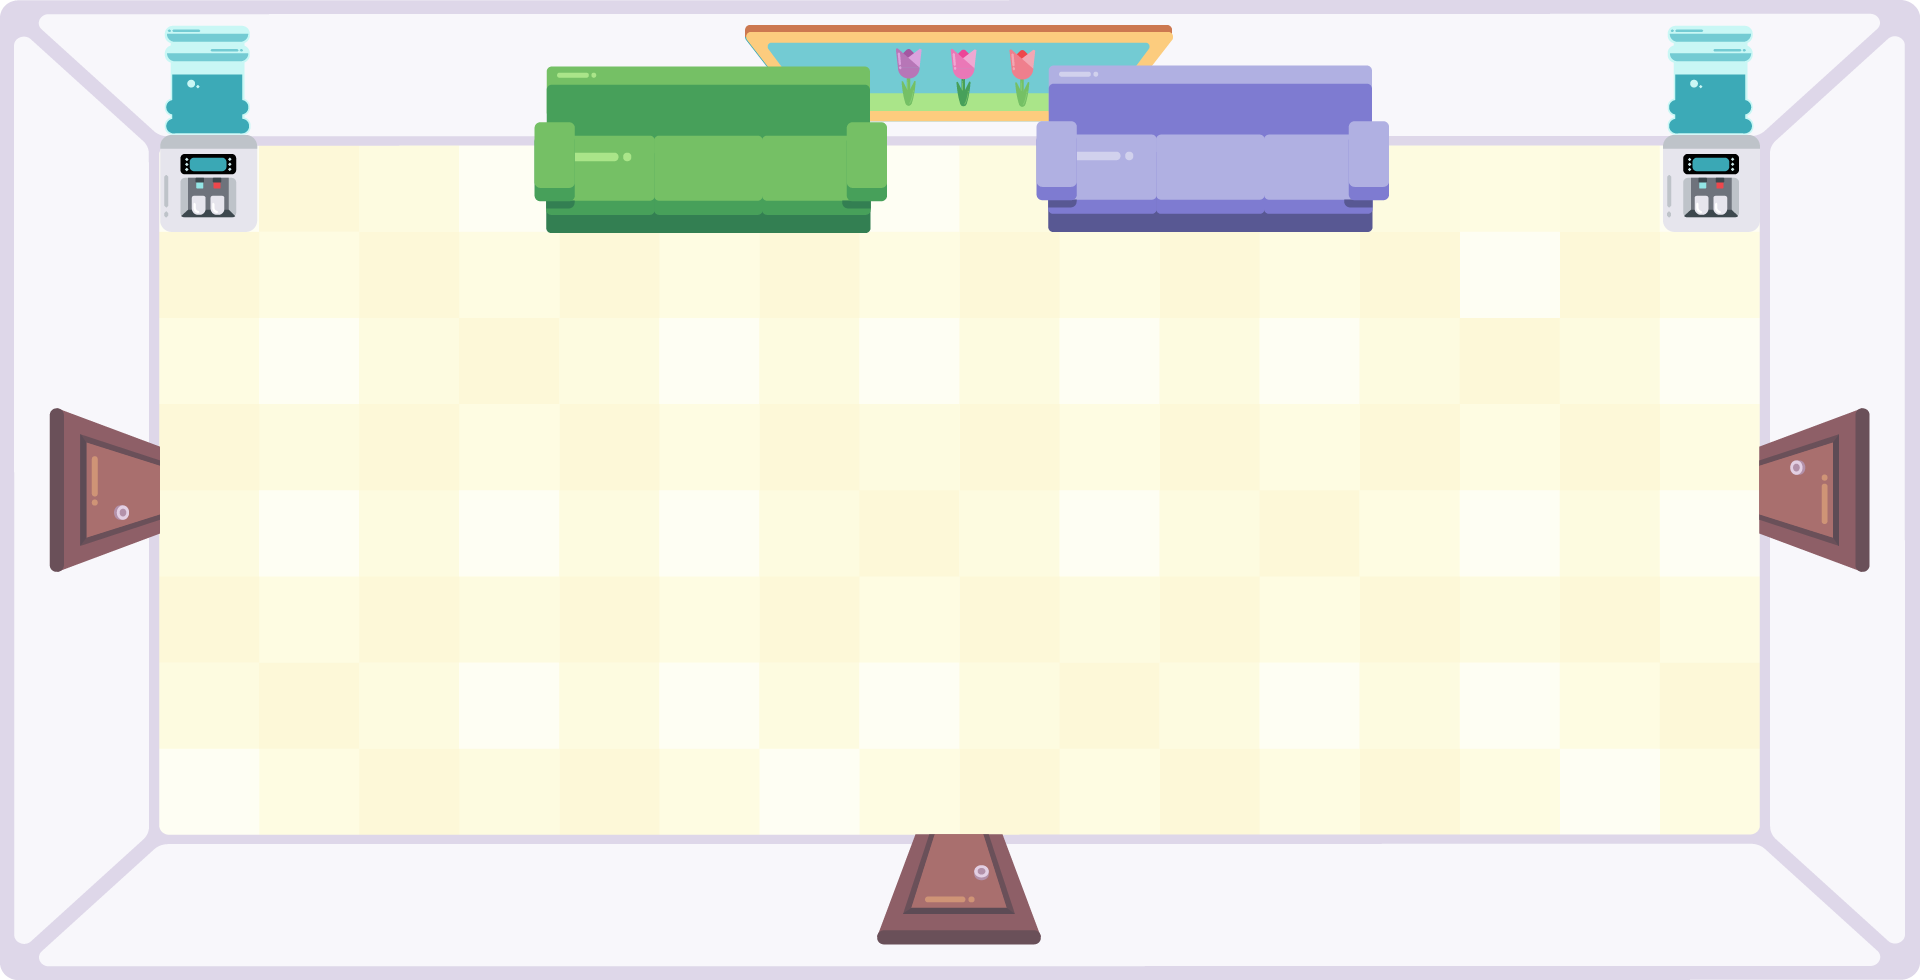
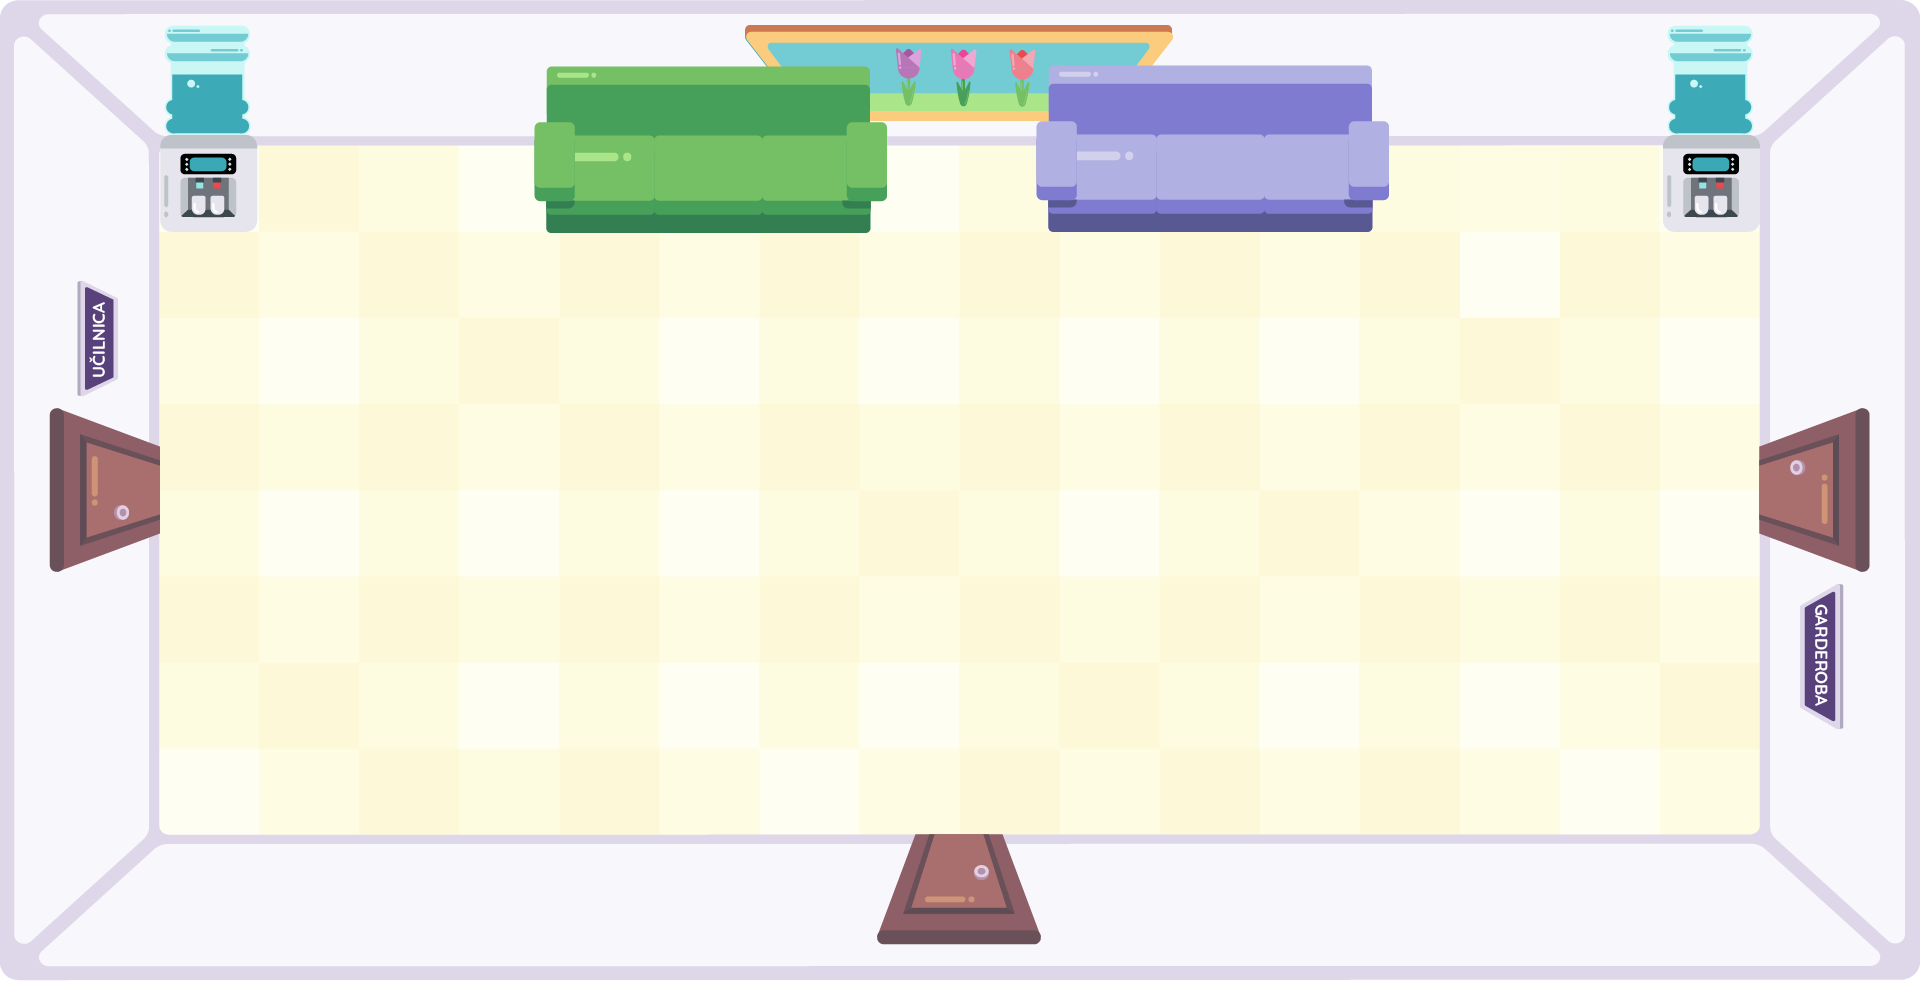
Heroku attempt 2

Changed region(s): [[0.9375, 0.5816, 0.9688, 0.7347], [0.0312, 0.2755, 0.0625, 0.398], [0.4688, 0.9184, 0.5, 0.949]]

diff --git a/client/scenes/ClassroomScene.js b/client/scenes/ClassroomScene.js
@@ -1,6 +1,7 @@
 // Classroom scene
 
 import Player from '../classes/Player.js';
+import TweenHelper from '../helpers/tweenHelper.js';
 import { socket } from './MainScene.js';
 
 import { setSocketEvents, removeSocketEvents } from '../helpers/socketEvents.js'
@@ -43,6 +44,10 @@ export default class ClassroomScene extends Phaser.Scene {
         this.classroomExit.isStatic = true;
         this.classroomExitBorder = this.matter.add.rectangle(gameData.width-80, gameData.height/2-60, 70, 120, 0xff0000, 1);
         this.classroomExitBorder.isStatic = true;
+
+        this.MAT = this.add.image(875, 80, 'MAT');
+        this.ANG = this.add.image(1058, 78, 'ANG');
+        this.SLO = this.add.image(1236, 74, 'SLO');
     }
 
     createHitboxes() {
@@ -69,8 +74,8 @@ export default class ClassroomScene extends Phaser.Scene {
     createCollisionEvents() {
         this.classroomExit.onCollideCallback = (pair) => {
             if (pair.bodyB.gameObject.id == playerData.id) {
-                this.enterText = this.add.image(gameData.width-150, gameData.height/2-100, 'ExitText');
-                this.enterText.scale = 0.3;
+                this.enterText = this.add.image(gameData.width-170, gameData.height/2-200, 'ExitText');
+                // this.enterText.scale = 0.3;
                 this.input.keyboard.on('keydown_E', () => this.exitClassroom(), this);
             }
         };
@@ -88,8 +93,9 @@ export default class ClassroomScene extends Phaser.Scene {
         this.quizEnteranceBorder.isStatic = true;
 
         this.quizEnterance.onCollideCallback = (pair) => {
-            this.enterText = this.add.image(gameData.width/2 + 100, 140, 'ANG');
-            this.enterText.scale = 0.5;
+            this.enterText = this.add.image(912, 365, 'Play');
+            TweenHelper.flashElement(this, this.ANG, -0.2);
+            this.ANG.tint = 0xEAF400;
             this.input.keyboard.on('keydown_E', () => this.enterQuiz(), this);
         }
 
@@ -98,22 +104,27 @@ export default class ClassroomScene extends Phaser.Scene {
                 this.enterText.destroy();
             }
             this.input.keyboard.removeAllListeners('keydown_E');
+            this.ANG.clearTint();
+            TweenHelper.resetElement(this, this.ANG);
         }
 
-        this.dndEnterance = this.matter.add.rectangle(370, 665, 50, 50, 0x000000, 1);
+        this.dndEnterance = this.matter.add.rectangle(665, 665, 50, 50, 0x000000, 1);
         this.dndEnterance.isStatic = true;
-        this.dndEnteranceBorder = this.matter.add.rectangle(370, 665, 70, 70, 0x000000, 1);
+        this.dndEnteranceBorder = this.matter.add.rectangle(665, 665, 70, 70, 0x000000, 1);
         this.dndEnteranceBorder.isStatic = true;
 
         this.dndEnterance.onCollideCallback = () => {
-            this.enterText = this.add.image(gameData.width/2 + 100, 140, 'MAT');
-            this.enterText.scale = 0.5;
+            this.enterText = this.add.image(607, 575, 'Play');
+            TweenHelper.flashElement(this, this.MAT, 0.2);
+            this.MAT.tint = 0xEAF400;
             this.input.keyboard.on('keydown_E', () => this.enterdnd(), this);
         }
 
         this.dndEnterance.onCollideEndCallback = () => {
             this.enterText.destroy();
             this.input.keyboard.removeAllListeners('keydown_E');
+            this.MAT.clearTint();
+            TweenHelper.resetElement(this, this.MAT);
         }
     }
 

diff --git a/client/helpers/tweenHelper.js b/client/helpers/tweenHelper.js
@@ -1,0 +1,53 @@
+export default class TweenHelper {
+    static flashElement(scene, element, rotation, repeat = false, easing = 'Linear', overallDuration = 300, visiblePauseDuration = 500) {
+        if (scene && element) {
+
+            let flashDuration = overallDuration - visiblePauseDuration / 2;
+
+            scene.tweens.timeline({
+                tweens: [
+                    {
+                        targets: element,
+                        duration: 0,
+                        alpha: 1,
+                        ease: easing,
+                        rotation: 0,
+                        scale: 1
+                    },
+                    {
+                        targets: element,
+                        duration: flashDuration,
+                        alpha: 1,
+                        ease: easing,
+                        rotation: rotation,
+                        scale: 1.5
+                    }
+                ]
+            });
+        }
+    }
+
+    static resetElement(scene, element, repeat = false, easing = 'Linear', overallDuration = 300, visiblePauseDuration = 500) {
+        if (scene && element) {
+            let flashDuration = overallDuration - visiblePauseDuration / 2;
+
+            scene.tweens.timeline({
+                tweens: [
+                    {
+                        targets: element,
+                        duration: flashDuration,
+                        alpha: 1,
+                        ease: easing,
+                        rotation: 0,
+                        scale: 1,
+                        onComplete: () => {
+                            if (repeat === true) {
+                                this.flashElement(scene, element);
+                            }
+                        }
+                    }
+                ]
+            });
+        }
+    }
+}

diff --git a/client/scenes/HallwayScene.js b/client/scenes/HallwayScene.js
@@ -87,8 +87,8 @@ export default class HallwayScene extends Phaser.Scene {
         // Exit school
         this.schoolExit.onCollideCallback = (pair) => {
             if(pair.bodyB.gameObject.id == playerData.id) {
-                this.exitText = this.add.image(gameData.width/2, 950, 'ExitText');
-                this.exitText.scale = 0.3;
+                this.exitText = this.add.image(gameData.width/2, 650, 'ExitText');
+                // this.exitText.scale = 0.3;
                 this.input.keyboard.on('keydown_E', () => this.leaveSchool(), this);
             }
         };
@@ -103,8 +103,8 @@ export default class HallwayScene extends Phaser.Scene {
         // Enter classroom
         this.classroomEnter.onCollideCallback = (pair) => {
             if(pair.bodyB.gameObject.id == playerData.id) {
-                this.exitText = this.add.image(150, gameData.height/2-100, 'EnterText');
-                this.exitText.scale = 0.3;
+                this.exitText = this.add.image(170, gameData.height/2-200, 'EnterText');
+                // this.exitText.scale = 0.3;
                 this.input.keyboard.on('keydown_E', () => this.enterClassroom(), this);
             }
         };
@@ -119,8 +119,8 @@ export default class HallwayScene extends Phaser.Scene {
         // Enter locker
         this.lockerEnter.onCollideCallback = (pair) => {
             if(pair.bodyB.gameObject.id == playerData.id) {
-                this.exitText = this.add.image(gameData.width-150, gameData.height/2-100, 'EnterText');
-                this.exitText.scale = 0.3;
+                this.exitText = this.add.image(gameData.width-170, gameData.height/2-200, 'EnterText');
+                // this.exitText.scale = 0.3;
                 this.input.keyboard.on('keydown_E', () => this.enterLocker(), this);
             }
         };

diff --git a/client/helpers/clientData.js b/client/helpers/clientData.js
@@ -172,10 +172,12 @@ export const preloadHUD = (scene) => {
     scene.load.image('EmojiChat', '../assets/HUD/EmojiChat.png');
     scene.load.image('Help', '../assets/HUD/Help.png');
     scene.load.image('InputChat', '../assets/HUD/InputChat.png');
-    scene.load.image('EnterText', '../assets/HUD-Legacy/EnterText.png');
-    scene.load.image('ExitText', '../assets/HUD-Legacy/ExitText.png');
-    scene.load.image('ANG', '../assets/HUD-Legacy/ANG.png');
-    scene.load.image('MAT', '../assets/HUD-Legacy/MAT.png');
+    scene.load.image('EnterText', '../assets/HUD/Enter.png');
+    scene.load.image('ExitText', '../assets/HUD/Exit.png');
+    scene.load.image('Play', '../assets/HUD/Play.png');
+    scene.load.image('SLO', '../assets/HUD/SLO.png');
+    scene.load.image('ANG', '../assets/HUD/ANG.png');
+    scene.load.image('MAT', '../assets/HUD/MAT.png');
 }
 
 export const createHUD = (scene) => {

diff --git a/client/scenes/MainScene.js b/client/scenes/MainScene.js
@@ -99,8 +99,8 @@ export default class MainScene extends Phaser.Scene {
     createCollisionEvents() {
         this.schoolEntrance.onCollideCallback = (pair) => {
             if(pair.bodyB.gameObject.id == playerData.id) {
-                this.enterText = this.add.image(gameData.width/2, 227, 'EnterText');
-                this.enterText.scale = 0.3;
+                this.enterText = this.add.image(gameData.width/2, gameData.height/2-90, 'EnterText');
+                // this.enterText.scale = 0.3;
                 this.input.keyboard.on('keydown_E', () => this.enterSchool(), this);
             }
         };

diff --git a/client/scenes/LockerScene.js b/client/scenes/LockerScene.js
@@ -59,8 +59,8 @@ export default class LockerScene extends Phaser.Scene {
         // Exit locker
         this.lockerExit.onCollideCallback = (pair) => {
             if (pair.bodyB.gameObject.id == playerData.id) {
-                this.exitText = this.add.image(150, gameData.height / 2 - 100, 'ExitText');
-                this.exitText.scale = 0.3;
+                this.exitText = this.add.image(170, gameData.height / 2 - 200, 'ExitText');
+                // this.exitText.scale = 0.3;
                 this.input.keyboard.on('keydown_E', () => this.exitLocker(), this);
             }
         };

diff --git a/client/index.html b/client/index.html
@@ -15,7 +15,7 @@
 <body>
     <div id="game" height="1080" width="1920" style="position: relative">
         <div id="login_wrapper" height="1080" width="1920">
-            <input id="username_input" type="text" name="login" placeholder="" required autocomplete="off"
+            <input id="username_input" type="text" name="login" placeholder="Vzdevek" required autocomplete="off"
                 maxlength="10">
         </div>
 

diff --git a/client/game.js b/client/game.js
@@ -16,7 +16,7 @@ var config = {
     physics: {
         default: 'matter',
         matter: {
-            debug: true,
+            debug: false,
             gravity: { y: 0 },
             setBounds: true
         }

diff --git a/client/assets/chat.css b/client/assets/chat.css
@@ -102,8 +102,8 @@ a {
 	overflow-y: scroll;
 	position: absolute;
 	width: 400px;
-	top: 570px;
-	left: 10px;
+	top: 565px;
+	left: 14px;
 	background-color: rgba(169, 64, 255, 0.349);
 	border-radius: 15px;
 }
